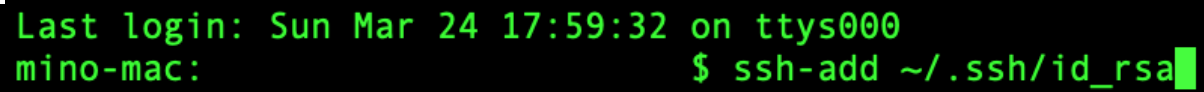
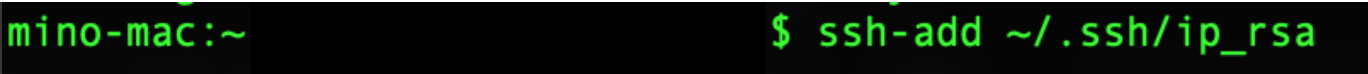
no message

Changed region(s): [[0.0, 0.1081, 1.0, 1.0], [0.0, 0.0, 1.0, 0.0811], [0.8912, 0.9189, 0.9219, 0.973]]

diff --git a/markdown/mis_github.md b/markdown/mis_github.md
@@ -54,7 +54,7 @@
 
  ![](https://minoeru.github.io/markdown/images/github/g_10.png)
 
- ### SSH鍵の作成
+### SSH鍵の作成
  このままでも通信はできるのですが、送信されるデータが暗号化されません。なので、SSH鍵を作成していきたいと思います<br>
  (※ここから先は設定しなくても動くので余力のある人だけで大丈夫です)
 
@@ -65,7 +65,8 @@
  Windows版はOSの問題上SSHが標準で使用できないためSourcetreeにSSH関係のものが付属しているらしいので、Mac版用に必要なことを書いていきます。<br>
 
  まず、ターミナルを開きましょう
-  ![](https://minoeru.github.io/markdown/images/github/g_11.png)
+
+ ![](https://minoeru.github.io/markdown/images/github/g_11.png)
 
  コマンドを打てる画面が開くので、[ssh-keygen -t rsa]と入力し、エンターを押しましょう。
 
@@ -73,24 +74,24 @@
 
  ![](https://minoeru.github.io/markdown/images/github/g_12.png)
 
- ##### Enter file in which to save the key (/home/vagrant/.ssh/id_rsa):
- と画面に出ると思うので、github用のSSH鍵とわかるような名前をつけてエンターを押しましょう
+##### Enter file in which to save the key (/home/vagrant/.ssh/id_rsa):
+ と画面に出ると思うので、エンターを押しましょう（明示的に名前をつけることもできますが、今回は初なのでエンターだけで大丈夫です）
  そうすると
- ##### Enter passphrase (empty for no passphrase):
+##### Enter passphrase (empty for no passphrase):
  と画面に出てくると思います。今回は特にパスワードが必要ないため、エンターを押しましょう
- ##### Enter same passphrase again:
+##### Enter same passphrase again:
  これもエンターだけで大丈夫です。
- ##### Your identification has been saved in (入力した名前).
- ##### Your public key has been saved in (入力した名前).pub.
- ##### The key fingerprint is:
- ##### 11:11:11:11:11:11:11:11:11:11:11:11:11:11:11:11(英数字の一覧) vagrant@localhost.localdomain
- ##### The key's randomart image is:
- ##### 以下略
+##### Your identification has been saved in ip_rsa.
+##### Your public key has been saved in ip_rsa.pub.
+##### The key fingerprint is:
+##### 11:11:11:11:11:11:11:11:11:11:11:11:11:11:11:11(英数字の一覧) vagrant@localhost.localdomain
+##### The key's randomart image is:
+##### 以下略
  と表示され、ssh鍵が生成されます。
  これで、.ssh以下にip_rsa(秘密鍵)とip_rsa.pub(公開鍵)が生成されます。
 
  最後に
- [ssh-add ~/.ssh/id_rsa]とコマンドを打つことで、今生成した鍵を登録できます。
+ [ssh-add ~/.ssh/ip_rsa]とコマンドを打つことで、今生成した鍵を登録できます。
 
  ![](https://minoeru.github.io/markdown/images/github/g_13.png)
 
